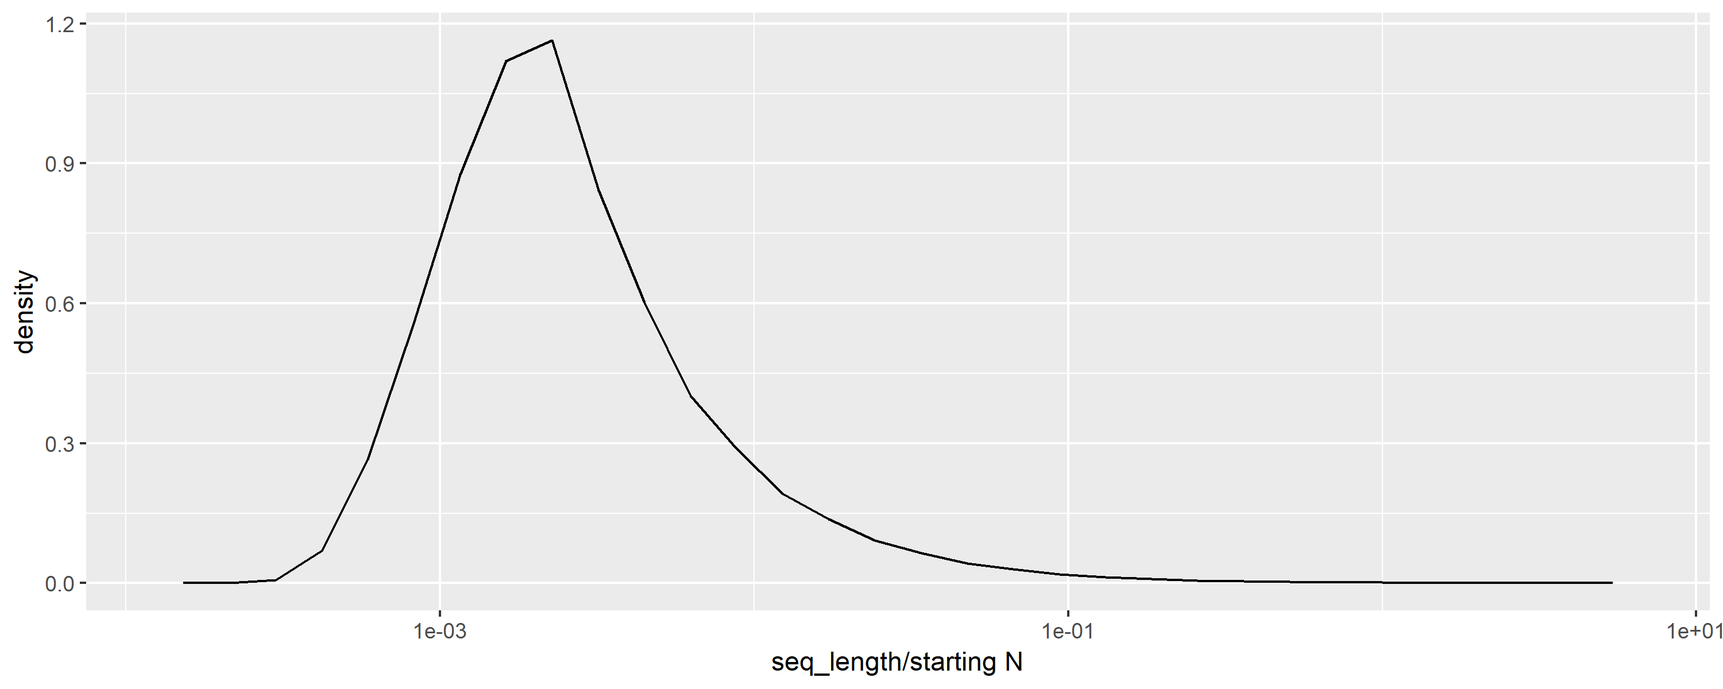
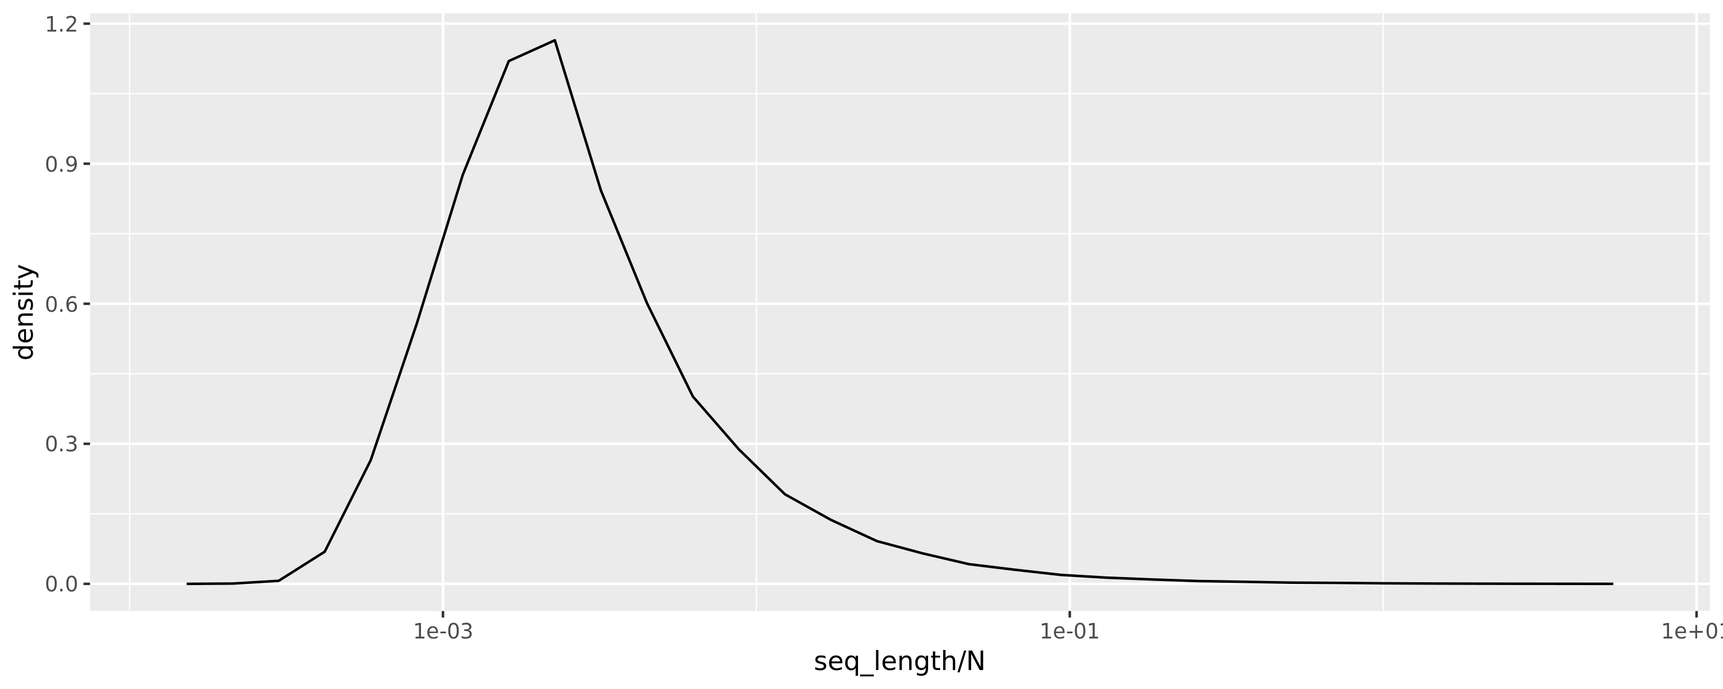
reorg

diff --git a/README.md b/README.md
@@ -3,26 +3,19 @@ Collatz Sequences
 Dan Reznik
 April 2019
 
-A Collatz *Sequence* starts with N, a positive integer. The next term in
-the sequence is obtained from the current one as follows:
+A Collatz *Sequence* starts with N, a positive integer. The next term in the sequence is obtained from the current one as follows:
 
-  - If current is even, next is half the current: `coll[i+1] =
-    coll[i]/2`
-  - If current is odd, next is 3 times the current plus 1: `coll[i+1]
-    = 3*coll[i]+1`
+-   If current is even, next is half the current: `coll[i+1] = coll[i]/2`
+-   If current is odd, next is 3 times the current plus 1: `coll[i+1] = 3*coll[i]+1`
 
-The Collatz *Conjecture* states that for all starting N’s, the sequence
-will always reach 1, explained
-[here](https://en.wikipedia.org/wiki/Collatz_conjecture).
+The Collatz *Conjecture* states that for all starting N's, the sequence will always reach 1, explained [here](https://en.wikipedia.org/wiki/Collatz_conjecture).
 
-Below we investigate basics of Collatz sequences with starting N from 1
-to 10k, namely:
+Below we investigate basics of Collatz sequences with starting N from 1 to 10k, namely:
 
-  - for each N calculate the sequence and its length
-  - pick a starting N (e.g, 27) which produces an unusually long
-    sequence
-  - study the distribution of the ratio of seq\_length/N
-  - show the starting N’s with largest seq\_length/N ratios
+-   for each N calculate the sequence and its length
+-   pick a starting N (e.g, 27) which produces an unusually long sequence
+-   study the distribution of the ratio of seq\_length/N
+-   show the starting N's with largest seq\_length/N ratios
 
 Load libraries
 
@@ -34,27 +27,47 @@ library(tictoc)
 library(fs)
 ```
 
-Calculate Collatz sequence with
-`purrr::accumulate()`
+Calculate Collatz sequence with `purrr::accumulate()`
 
 ``` r
 collatz <- function(x,y) if (x%in%c(1L,2L)) done(1L) else if (even(x)) x/2L else 3L*x+1L
-get_seq_seq <- function(x) (1L:10000L)%>%accumulate(collatz,.init=x)%>%as.integer
+get_coll_seq <- function(x) (1:1e5) %>% # est. max length
+  accumulate(collatz,.init=x)%>%as.integer
 ```
 
-Compute (in parallel) first 100k Collatz sequences, and show them for
-N=20…30
+Show the `N=7` sequence
+
+``` r
+get_coll_seq(7)
+#>  [1]  7 22 11 34 17 52 26 13 40 20 10  5 16  8  4  2  1
+```
+
+Plot the unusually long `N=27` sequence
+
+``` r
+tibble(x=get_coll_seq(27)) %>%
+  mutate(i=row_number()) %>%
+  ggplot(aes(i,x))+
+  geom_line(color="blue") + geom_point(color="black") +
+  scale_y_log10() + 
+  labs(title="N=27",
+       y="collatz[i] (log scale)",x="Iteration")
+```
+
+<img src="README_files/figure-markdown_github/unnamed-chunk-5-1.png" width="100%" style="display: block; margin: auto;" />
+
+Compute (in parallel) large \# of Collatz sequences, and show a few of them, e.g., for N=20...30
 
 ``` r
 fname_coll <- "data/df_coll.rds"
-n_max <- 100e3
+n_max <- 10e3
 tic()
 if (file_exists(fname_coll)) { # avoid long calc w/ knitr
   df_coll <- read_rds(fname_coll)
 } else {
   plan(multiprocess)
   df_coll <- tibble(n=1:n_max,
-                    coll=n%>%future_map(get_seq_seq),
+                    coll=n%>%future_map(get_coll_seq),
                     seq_s=coll%>%map_chr(str_c,collapse=";"),
                     seq_max=coll%>%map_int(max),
                     seq_l=coll%>%map_int(length)) %>%
@@ -63,36 +76,22 @@ if (file_exists(fname_coll)) { # avoid long calc w/ knitr
   df_coll %>% write_rds(fname_coll,compress = "bz")
 }
 toc()
-#> 2.07 sec elapsed
+#> 2.968 sec elapsed
 ```
 
-|  n | seq\_l | seq\_max | seq\_s                                                                                                                                                                                                                                                                                                                                                                                                                                                      |
-| -: | -----: | -------: | :---------------------------------------------------------------------------------------------------------------------------------------------------------------------------------------------------------------------------------------------------------------------------------------------------------------------------------------------------------------------------------------------------------------------------------------------------------- |
-| 20 |      8 |       20 | 20;10;5;16;8;4;2;1                                                                                                                                                                                                                                                                                                                                                                                                                                          |
-| 21 |      8 |       64 | 21;64;32;16;8;4;2;1                                                                                                                                                                                                                                                                                                                                                                                                                                         |
-| 22 |     16 |       52 | 22;11;34;17;52;26;13;40;20;10;5;16;8;4;2;1                                                                                                                                                                                                                                                                                                                                                                                                                  |
-| 23 |     16 |      160 | 23;70;35;106;53;160;80;40;20;10;5;16;8;4;2;1                                                                                                                                                                                                                                                                                                                                                                                                                |
-| 24 |     11 |       24 | 24;12;6;3;10;5;16;8;4;2;1                                                                                                                                                                                                                                                                                                                                                                                                                                   |
-| 25 |     24 |       88 | 25;76;38;19;58;29;88;44;22;11;34;17;52;26;13;40;20;10;5;16;8;4;2;1                                                                                                                                                                                                                                                                                                                                                                                          |
-| 26 |     11 |       40 | 26;13;40;20;10;5;16;8;4;2;1                                                                                                                                                                                                                                                                                                                                                                                                                                 |
-| 27 |    112 |     9232 | 27;82;41;124;62;31;94;47;142;71;214;107;322;161;484;242;121;364;182;91;274;137;412;206;103;310;155;466;233;700;350;175;526;263;790;395;1186;593;1780;890;445;1336;668;334;167;502;251;754;377;1132;566;283;850;425;1276;638;319;958;479;1438;719;2158;1079;3238;1619;4858;2429;7288;3644;1822;911;2734;1367;4102;2051;6154;3077;9232;4616;2308;1154;577;1732;866;433;1300;650;325;976;488;244;122;61;184;92;46;23;70;35;106;53;160;80;40;20;10;5;16;8;4;2;1 |
-| 28 |     19 |       52 | 28;14;7;22;11;34;17;52;26;13;40;20;10;5;16;8;4;2;1                                                                                                                                                                                                                                                                                                                                                                                                          |
-| 29 |     19 |       88 | 29;88;44;22;11;34;17;52;26;13;40;20;10;5;16;8;4;2;1                                                                                                                                                                                                                                                                                                                                                                                                         |
-| 30 |     19 |      160 | 30;15;46;23;70;35;106;53;160;80;40;20;10;5;16;8;4;2;1                                                                                                                                                                                                                                                                                                                                                                                                       |
-
-The N=27 sequence
-
-``` r
-coll27 <- df_coll%>%filter(n==27)%>%pull(seq_s)
-tibble(x=coll27%>%str_split(";")%>%first%>%as.integer)%>%mutate(i=row_number()) %>%
-  ggplot(aes(i,x))+
-  geom_line(color="blue") + geom_point(color="black") +
-  scale_y_log10() + 
-  labs(title="N=27",
-       y="collatz[i] (log scale)",x="Iteration")
-```
-
-<img src="README_files/figure-gfm/unnamed-chunk-6-1.png" width="100%" style="display: block; margin: auto;" />
+|    n|  seq\_l|  seq\_max| seq\_s                                                                                                                                                                                                                                                                                                                                                                                                                                                      |
+|----:|-------:|---------:|:------------------------------------------------------------------------------------------------------------------------------------------------------------------------------------------------------------------------------------------------------------------------------------------------------------------------------------------------------------------------------------------------------------------------------------------------------------|
+|   20|       8|        20| 20;10;5;16;8;4;2;1                                                                                                                                                                                                                                                                                                                                                                                                                                          |
+|   21|       8|        64| 21;64;32;16;8;4;2;1                                                                                                                                                                                                                                                                                                                                                                                                                                         |
+|   22|      16|        52| 22;11;34;17;52;26;13;40;20;10;5;16;8;4;2;1                                                                                                                                                                                                                                                                                                                                                                                                                  |
+|   23|      16|       160| 23;70;35;106;53;160;80;40;20;10;5;16;8;4;2;1                                                                                                                                                                                                                                                                                                                                                                                                                |
+|   24|      11|        24| 24;12;6;3;10;5;16;8;4;2;1                                                                                                                                                                                                                                                                                                                                                                                                                                   |
+|   25|      24|        88| 25;76;38;19;58;29;88;44;22;11;34;17;52;26;13;40;20;10;5;16;8;4;2;1                                                                                                                                                                                                                                                                                                                                                                                          |
+|   26|      11|        40| 26;13;40;20;10;5;16;8;4;2;1                                                                                                                                                                                                                                                                                                                                                                                                                                 |
+|   27|     112|      9232| 27;82;41;124;62;31;94;47;142;71;214;107;322;161;484;242;121;364;182;91;274;137;412;206;103;310;155;466;233;700;350;175;526;263;790;395;1186;593;1780;890;445;1336;668;334;167;502;251;754;377;1132;566;283;850;425;1276;638;319;958;479;1438;719;2158;1079;3238;1619;4858;2429;7288;3644;1822;911;2734;1367;4102;2051;6154;3077;9232;4616;2308;1154;577;1732;866;433;1300;650;325;976;488;244;122;61;184;92;46;23;70;35;106;53;160;80;40;20;10;5;16;8;4;2;1 |
+|   28|      19|        52| 28;14;7;22;11;34;17;52;26;13;40;20;10;5;16;8;4;2;1                                                                                                                                                                                                                                                                                                                                                                                                          |
+|   29|      19|        88| 29;88;44;22;11;34;17;52;26;13;40;20;10;5;16;8;4;2;1                                                                                                                                                                                                                                                                                                                                                                                                         |
+|   30|      19|       160| 30;15;46;23;70;35;106;53;160;80;40;20;10;5;16;8;4;2;1                                                                                                                                                                                                                                                                                                                                                                                                       |
 
 Plot sequence lengths vs starting N
 
@@ -105,18 +104,9 @@ df_coll %>%
 #> `geom_smooth()` using method = 'gam' and formula 'y ~ s(x, bs = "cs")'
 ```
 
-<img src="README_files/figure-gfm/unnamed-chunk-7-1.png" width="100%" style="display: block; margin: auto;" />
+<img src="README_files/figure-markdown_github/unnamed-chunk-8-1.png" width="100%" style="display: block; margin: auto;" />
 
-Mean and Median of length/n
-
-``` r
-map2_dbl(df_coll$seq_l,df_coll$n,~.x/.y)%>%mean
-#> [1] 0.00657434
-map2_dbl(df_coll$seq_l,df_coll$n,~.x/.y)%>%median
-#> [1] 0.002203746
-```
-
-Top ten ratios of sequence lengths by starting N
+Top ratios of sequence lengths by starting N
 
 ``` r
 df_coll %>%
@@ -128,31 +118,60 @@ df_coll %>%
   knitr::kable()
 ```
 
-| rank |  n | seq\_l | ratio | seq\_max | seq\_s                                                                                                                                                                                                                                                                                                                                                                                                                                                             |
-| ---: | -: | -----: | ----: | -------: | :----------------------------------------------------------------------------------------------------------------------------------------------------------------------------------------------------------------------------------------------------------------------------------------------------------------------------------------------------------------------------------------------------------------------------------------------------------------- |
-|    1 | 27 |    112 |  4.15 |     9232 | 27;82;41;124;62;31;94;47;142;71;214;107;322;161;484;242;121;364;182;91;274;137;412;206;103;310;155;466;233;700;350;175;526;263;790;395;1186;593;1780;890;445;1336;668;334;167;502;251;754;377;1132;566;283;850;425;1276;638;319;958;479;1438;719;2158;1079;3238;1619;4858;2429;7288;3644;1822;911;2734;1367;4102;2051;6154;3077;9232;4616;2308;1154;577;1732;866;433;1300;650;325;976;488;244;122;61;184;92;46;23;70;35;106;53;160;80;40;20;10;5;16;8;4;2;1        |
-|    2 | 31 |    107 |  3.45 |     9232 | 31;94;47;142;71;214;107;322;161;484;242;121;364;182;91;274;137;412;206;103;310;155;466;233;700;350;175;526;263;790;395;1186;593;1780;890;445;1336;668;334;167;502;251;754;377;1132;566;283;850;425;1276;638;319;958;479;1438;719;2158;1079;3238;1619;4858;2429;7288;3644;1822;911;2734;1367;4102;2051;6154;3077;9232;4616;2308;1154;577;1732;866;433;1300;650;325;976;488;244;122;61;184;92;46;23;70;35;106;53;160;80;40;20;10;5;16;8;4;2;1                        |
-|    3 | 41 |    110 |  2.68 |     9232 | 41;124;62;31;94;47;142;71;214;107;322;161;484;242;121;364;182;91;274;137;412;206;103;310;155;466;233;700;350;175;526;263;790;395;1186;593;1780;890;445;1336;668;334;167;502;251;754;377;1132;566;283;850;425;1276;638;319;958;479;1438;719;2158;1079;3238;1619;4858;2429;7288;3644;1822;911;2734;1367;4102;2051;6154;3077;9232;4616;2308;1154;577;1732;866;433;1300;650;325;976;488;244;122;61;184;92;46;23;70;35;106;53;160;80;40;20;10;5;16;8;4;2;1              |
-|    4 |  3 |      8 |  2.67 |       16 | 3;10;5;16;8;4;2;1                                                                                                                                                                                                                                                                                                                                                                                                                                                  |
-|    5 |  7 |     17 |  2.43 |       52 | 7;22;11;34;17;52;26;13;40;20;10;5;16;8;4;2;1                                                                                                                                                                                                                                                                                                                                                                                                                       |
-|    6 | 47 |    105 |  2.23 |     9232 | 47;142;71;214;107;322;161;484;242;121;364;182;91;274;137;412;206;103;310;155;466;233;700;350;175;526;263;790;395;1186;593;1780;890;445;1336;668;334;167;502;251;754;377;1132;566;283;850;425;1276;638;319;958;479;1438;719;2158;1079;3238;1619;4858;2429;7288;3644;1822;911;2734;1367;4102;2051;6154;3077;9232;4616;2308;1154;577;1732;866;433;1300;650;325;976;488;244;122;61;184;92;46;23;70;35;106;53;160;80;40;20;10;5;16;8;4;2;1                              |
-|    7 |  9 |     20 |  2.22 |       52 | 9;28;14;7;22;11;34;17;52;26;13;40;20;10;5;16;8;4;2;1                                                                                                                                                                                                                                                                                                                                                                                                               |
-|    8 | 54 |    113 |  2.09 |     9232 | 54;27;82;41;124;62;31;94;47;142;71;214;107;322;161;484;242;121;364;182;91;274;137;412;206;103;310;155;466;233;700;350;175;526;263;790;395;1186;593;1780;890;445;1336;668;334;167;502;251;754;377;1132;566;283;850;425;1276;638;319;958;479;1438;719;2158;1079;3238;1619;4858;2429;7288;3644;1822;911;2734;1367;4102;2051;6154;3077;9232;4616;2308;1154;577;1732;866;433;1300;650;325;976;488;244;122;61;184;92;46;23;70;35;106;53;160;80;40;20;10;5;16;8;4;2;1     |
-|    9 | 55 |    113 |  2.05 |     9232 | 55;166;83;250;125;376;188;94;47;142;71;214;107;322;161;484;242;121;364;182;91;274;137;412;206;103;310;155;466;233;700;350;175;526;263;790;395;1186;593;1780;890;445;1336;668;334;167;502;251;754;377;1132;566;283;850;425;1276;638;319;958;479;1438;719;2158;1079;3238;1619;4858;2429;7288;3644;1822;911;2734;1367;4102;2051;6154;3077;9232;4616;2308;1154;577;1732;866;433;1300;650;325;976;488;244;122;61;184;92;46;23;70;35;106;53;160;80;40;20;10;5;16;8;4;2;1 |
-|   10 |  1 |      2 |  2.00 |        1 | 1;1                                                                                                                                                                                                                                                                                                                                                                                                                                                                |
+|  rank|    n|  seq\_l|  ratio|  seq\_max| seq\_s                                                                                                                                                                                                                                                                                                                                                                                                                                                             |
+|-----:|----:|-------:|------:|---------:|:-------------------------------------------------------------------------------------------------------------------------------------------------------------------------------------------------------------------------------------------------------------------------------------------------------------------------------------------------------------------------------------------------------------------------------------------------------------------|
+|     1|   27|     112|   4.15|      9232| 27;82;41;124;62;31;94;47;142;71;214;107;322;161;484;242;121;364;182;91;274;137;412;206;103;310;155;466;233;700;350;175;526;263;790;395;1186;593;1780;890;445;1336;668;334;167;502;251;754;377;1132;566;283;850;425;1276;638;319;958;479;1438;719;2158;1079;3238;1619;4858;2429;7288;3644;1822;911;2734;1367;4102;2051;6154;3077;9232;4616;2308;1154;577;1732;866;433;1300;650;325;976;488;244;122;61;184;92;46;23;70;35;106;53;160;80;40;20;10;5;16;8;4;2;1        |
+|     2|   31|     107|   3.45|      9232| 31;94;47;142;71;214;107;322;161;484;242;121;364;182;91;274;137;412;206;103;310;155;466;233;700;350;175;526;263;790;395;1186;593;1780;890;445;1336;668;334;167;502;251;754;377;1132;566;283;850;425;1276;638;319;958;479;1438;719;2158;1079;3238;1619;4858;2429;7288;3644;1822;911;2734;1367;4102;2051;6154;3077;9232;4616;2308;1154;577;1732;866;433;1300;650;325;976;488;244;122;61;184;92;46;23;70;35;106;53;160;80;40;20;10;5;16;8;4;2;1                        |
+|     3|   41|     110|   2.68|      9232| 41;124;62;31;94;47;142;71;214;107;322;161;484;242;121;364;182;91;274;137;412;206;103;310;155;466;233;700;350;175;526;263;790;395;1186;593;1780;890;445;1336;668;334;167;502;251;754;377;1132;566;283;850;425;1276;638;319;958;479;1438;719;2158;1079;3238;1619;4858;2429;7288;3644;1822;911;2734;1367;4102;2051;6154;3077;9232;4616;2308;1154;577;1732;866;433;1300;650;325;976;488;244;122;61;184;92;46;23;70;35;106;53;160;80;40;20;10;5;16;8;4;2;1              |
+|     4|    3|       8|   2.67|        16| 3;10;5;16;8;4;2;1                                                                                                                                                                                                                                                                                                                                                                                                                                                  |
+|     5|    7|      17|   2.43|        52| 7;22;11;34;17;52;26;13;40;20;10;5;16;8;4;2;1                                                                                                                                                                                                                                                                                                                                                                                                                       |
+|     6|   47|     105|   2.23|      9232| 47;142;71;214;107;322;161;484;242;121;364;182;91;274;137;412;206;103;310;155;466;233;700;350;175;526;263;790;395;1186;593;1780;890;445;1336;668;334;167;502;251;754;377;1132;566;283;850;425;1276;638;319;958;479;1438;719;2158;1079;3238;1619;4858;2429;7288;3644;1822;911;2734;1367;4102;2051;6154;3077;9232;4616;2308;1154;577;1732;866;433;1300;650;325;976;488;244;122;61;184;92;46;23;70;35;106;53;160;80;40;20;10;5;16;8;4;2;1                              |
+|     7|    9|      20|   2.22|        52| 9;28;14;7;22;11;34;17;52;26;13;40;20;10;5;16;8;4;2;1                                                                                                                                                                                                                                                                                                                                                                                                               |
+|     8|   54|     113|   2.09|      9232| 54;27;82;41;124;62;31;94;47;142;71;214;107;322;161;484;242;121;364;182;91;274;137;412;206;103;310;155;466;233;700;350;175;526;263;790;395;1186;593;1780;890;445;1336;668;334;167;502;251;754;377;1132;566;283;850;425;1276;638;319;958;479;1438;719;2158;1079;3238;1619;4858;2429;7288;3644;1822;911;2734;1367;4102;2051;6154;3077;9232;4616;2308;1154;577;1732;866;433;1300;650;325;976;488;244;122;61;184;92;46;23;70;35;106;53;160;80;40;20;10;5;16;8;4;2;1     |
+|     9|   55|     113|   2.05|      9232| 55;166;83;250;125;376;188;94;47;142;71;214;107;322;161;484;242;121;364;182;91;274;137;412;206;103;310;155;466;233;700;350;175;526;263;790;395;1186;593;1780;890;445;1336;668;334;167;502;251;754;377;1132;566;283;850;425;1276;638;319;958;479;1438;719;2158;1079;3238;1619;4858;2429;7288;3644;1822;911;2734;1367;4102;2051;6154;3077;9232;4616;2308;1154;577;1732;866;433;1300;650;325;976;488;244;122;61;184;92;46;23;70;35;106;53;160;80;40;20;10;5;16;8;4;2;1 |
+|    10|    1|       2|   2.00|         1| 1;1                                                                                                                                                                                                                                                                                                                                                                                                                                                                |
 
-Plot density of sequence lengths divided by starting N. Can the mode be
-computed?
+Mean and Median of length/n
 
 ``` r
 df_coll %>%
+  filter(n>1) %>%
+  mutate(ratio=seq_l/n,
+         ratio_log=seq_l/log(n)) %>%
+  summarize_at(vars(starts_with("ratio")),
+               list(~mean,~median))
+#> # A tibble: 1 x 4
+#>   ratio_mean ratio_log_mean ratio_median ratio_log_median
+#>        <dbl>          <dbl>        <dbl>            <dbl>
+#> 1    0.00655           10.3      0.00220             9.50
+```
+
+Plot density of sequence lengths divided by starting N. Can the mode be computed?
+
+``` r
+df_coll %>%
+  filter(n>1) %>%
   ggplot(aes(seq_l/n)) +
   geom_freqpoly(aes(y = ..density..)) +
   scale_x_log10() +
-  labs(x='seq_length/starting N',
+  labs(x='seq_length/N',
        y='density')
 ```
 
-<img src="README_files/figure-gfm/unnamed-chunk-10-1.png" width="100%" style="display: block; margin: auto;" />
+<img src="README_files/figure-markdown_github/unnamed-chunk-11-1.png" width="100%" style="display: block; margin: auto;" />
 
-Happy Collatzing\!
+Same distribution for seq\_l/log(N):
+
+``` r
+df_coll %>%
+  filter(n>1) %>%
+  ggplot(aes(seq_l/log(n))) +
+  geom_freqpoly(aes(y = ..density..)) +
+  scale_x_log10() +
+  labs(x='seq_length/log(N)',
+       y='density')
+```
+
+<img src="README_files/figure-markdown_github/unnamed-chunk-13-1.png" width="100%" style="display: block; margin: auto;" />
+
+Happy Collatzing!
